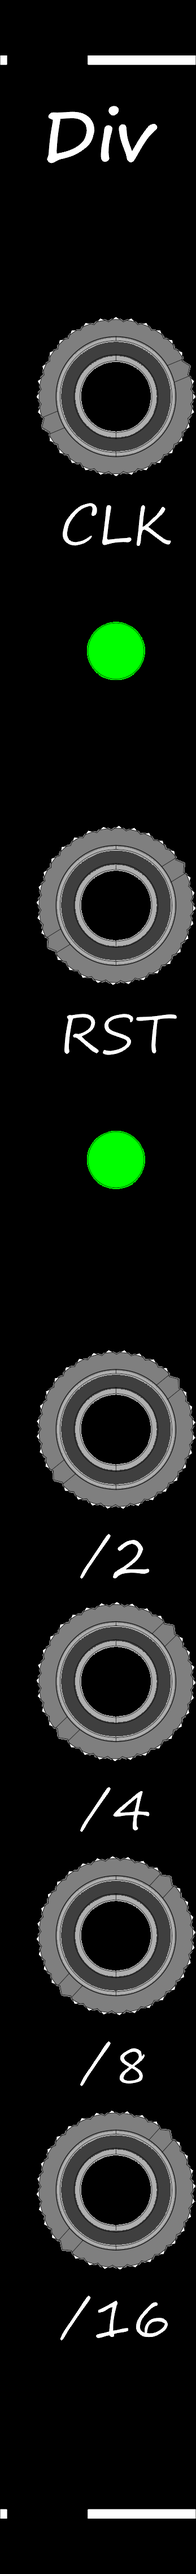
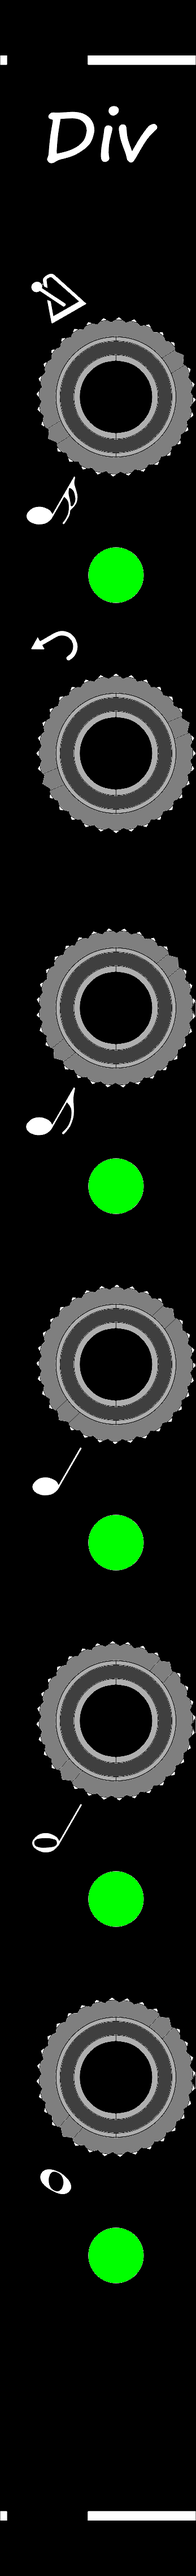
Update

Changed region(s): [[0.1441, 0.0936, 1.0, 0.9051], [0.951, 0.1248, 1.0, 0.1873], [0.8646, 0.1248, 0.8934, 0.1873]]

diff --git a/Modules/Slim Line/Slimline Clock Divider/README.md b/Modules/Slim Line/Slimline Clock Divider/README.md
@@ -1,7 +1,7 @@
 <h1>Slimline Clock Divider NG</h1>
 <table>
 	<tr valign="top">
-		<td><img src="../../../Artwork/Slimline%20Clock%20Divider%20NG.png" height="300"></td>
+		<td><img src="../../../Artwork/Slimline%20Clock%20Divider.png" height="300"></td>
 		<td>
 			<p>
 				Slimline Clock Divider NG
